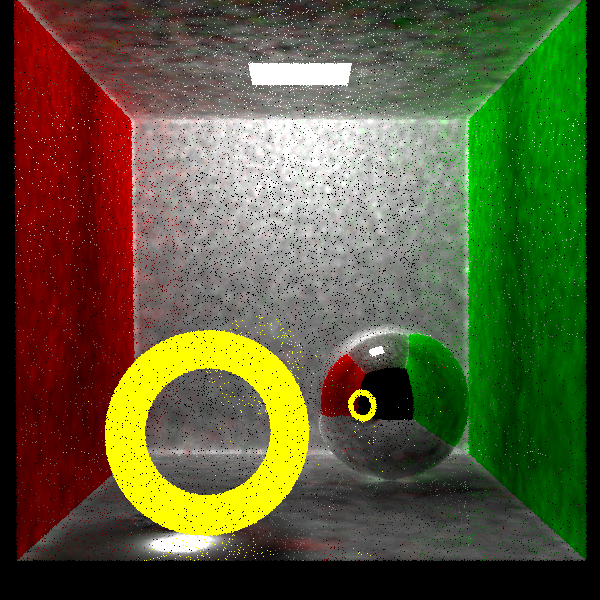
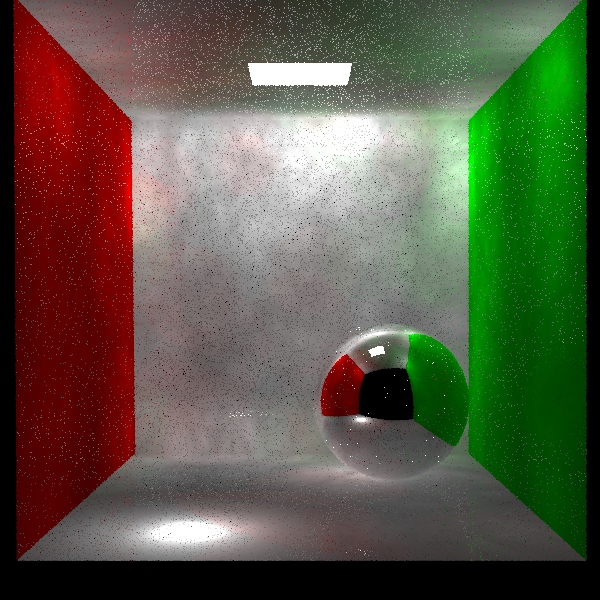
Debugging transmission from camera ray

diff --git a/src/ray/renderer/PhotonMapRenderer.java b/src/ray/renderer/PhotonMapRenderer.java
@@ -251,7 +251,7 @@ public class PhotonMapRenderer implements Renderer {
 							n.scale(-1);		//The normal points outside the material
 						}else{
 							//Entering the surface
-							transPhoton.power.scale(2);
+							//transPhoton.power.scale(1.1);
 							transPhoton.setRefIdx(refraciveIndex);
 						}
 
@@ -346,7 +346,7 @@ public class PhotonMapRenderer implements Renderer {
 		// find if the ray intersect with any surface
 		IntersectionRecord iRec = new IntersectionRecord();
 
-		int numNear = 50;
+		int numNear = 40;
 		
 		if (scene.getFirstIntersection(iRec, ray)) {
 			
@@ -438,6 +438,7 @@ public class PhotonMapRenderer implements Renderer {
 					Ray transRay = new Ray(sri_point, ray.direction);
 					transRay.makeOffsetRay();
 
+
 					//Query the refractive index in which the ray is propagating.
 					Color prevRefIdx = ray.getRefIdx();
 
@@ -455,10 +456,14 @@ public class PhotonMapRenderer implements Renderer {
 
 						Vector3 n = new Vector3(iRec.frame.w);
 
+						boolean exit = false;
 						if(prevRefIdx.eq(refraciveIndex) ){
 							//Exiting the surface
 							transRay.resetRefIdx();
 							n.scale(-1);		//The normal points outside the material
+							//outColor.set(0.0,0.0,1.0);		//Regions which reflect internally are shaded yellow for debug.
+							//return;
+							exit = true;
 
 						}else{
 							//Entering the surface
@@ -481,7 +486,7 @@ public class PhotonMapRenderer implements Renderer {
 
 						//Check the critical angle
 						double sinTheta1 = operand1.length();
-						if(sinTheta1 > 1/eta_1__eta2 ){
+						if(sinTheta1 > 1/eta_1__eta2 && false){
 							//Perform a total internal reflection
 							//Sid debug this.
 
@@ -493,17 +498,16 @@ public class PhotonMapRenderer implements Renderer {
 
 							double x = reffDir.x;
 							double y = reffDir.y;
-							double z = reffDir.z;
+							double z = -reffDir.z;
 
-							reffDir.set(x,y,-z);
+							reffDir.set(x,y,z);
 
 							iRec.frame.frameToCanonical(reffDir);
 							transmitDir.set(reffDir);
 							transRay.setRefIdx(refraciveIndex);
-							ray.direction.scale(-1);
-							transmitDir.set( ray.direction );
-							outColor.set(1.0,1.0,0.0);		//Regions which reflect internally are shaded yellow for debug.
-							return;
+
+							transmitDir.set(ray.direction);
+							transmitDir.scale(-1);
 							//Sid end debug
 						}
 						else{
@@ -530,7 +534,7 @@ public class PhotonMapRenderer implements Renderer {
 						
 					}
 
-					ray.direction.set(transmitDir);
+					transRay.makeOffsetRay();
 					//Cast the ray
 					rayRadiance(scene, transRay, sampler, sampleIndex, outColor);
 					return;
@@ -552,7 +556,7 @@ public class PhotonMapRenderer implements Renderer {
 			}catch(KeySizeException ksze){
 				System.err.println("");
 			}
-			pow.scale(1.0/distSq*9000);
+			pow.scale(1.0/distSq*600000);
 			outColor.set(outBSDFValue);
 			
 			outColor.scale(pow);
